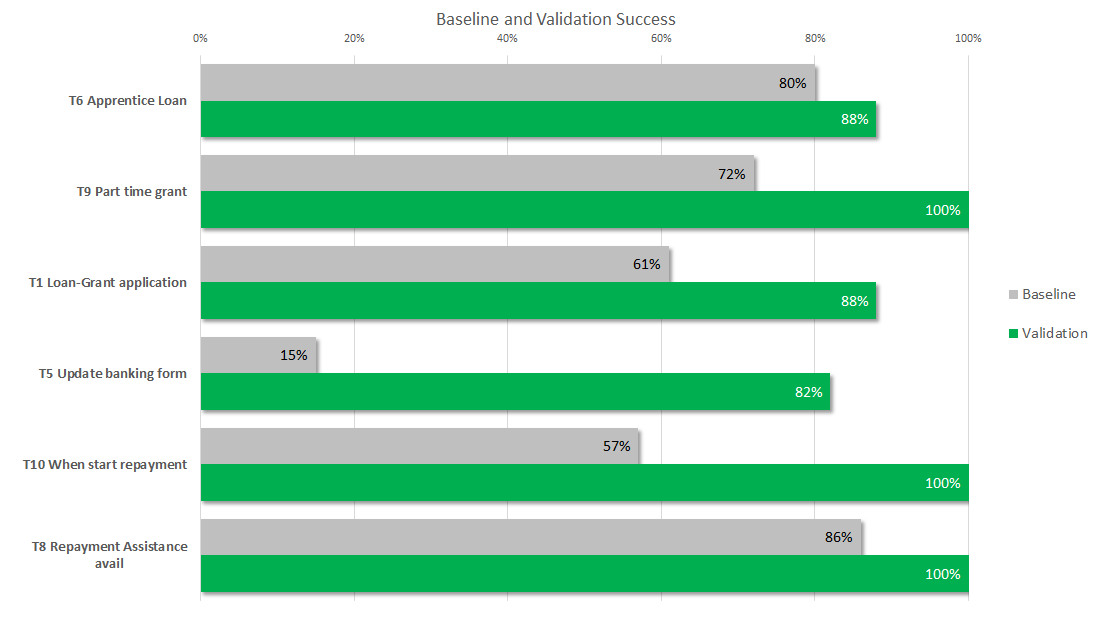
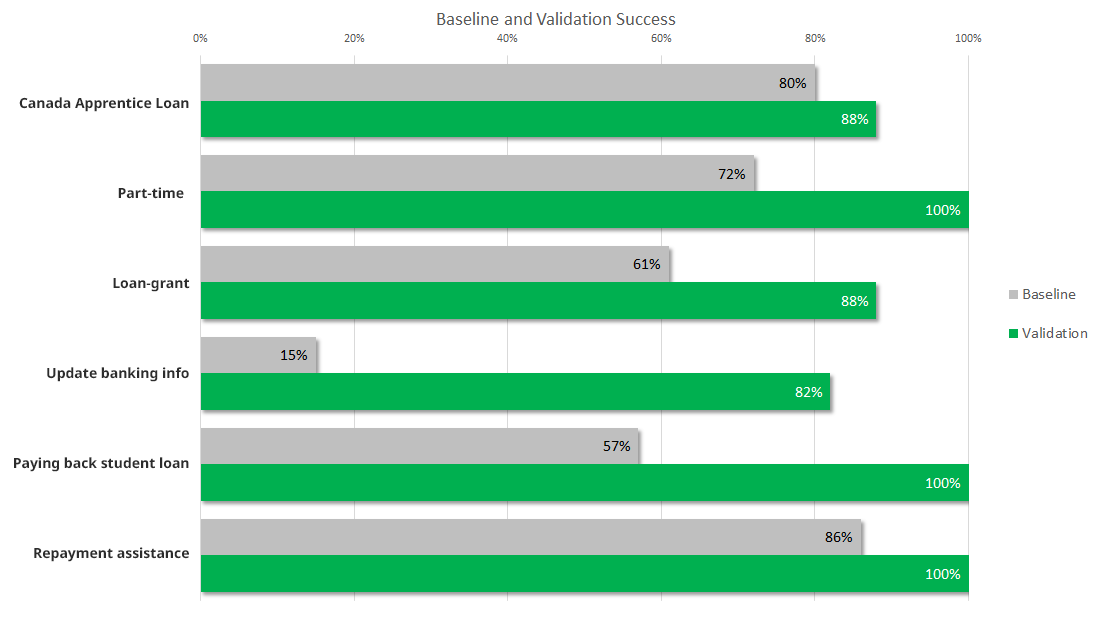
update

diff --git a/research-summaries/student-loans-research-summary.html b/research-summaries/student-loans-research-summary.html
@@ -97,8 +97,8 @@ main p, main li, main blockquote {
 <p>The baseline study showed that it was hard for users to find the <abbr title="National Student Loans Service Centre">NSLSC</abbr> site and to understand what they could do there.  People often seemed to forget the complex name of the National Student Loans Service Centre program. There were many searches on Google and Canada.ca for variations of ‘<abbr title="National Student Loans Service Centre">NSLSC</abbr>’. To address this problem, the team used the term in the title of the new page: <a href="https://www.canada.ca/en/services/benefits/education/student-aid/manage-student-loan.html">Manage your student loan at the <abbr title="National Student Loans Service Centre">NSLSC</abbr></a>. We also added a single primary button to direct students to login to their <abbr title="National Student Loans Service Centre">NSLSC</abbr> account.</p>
 
 <figure class="mrgn-tp-lg mrgn-bttm-lg">
-<img class="img-responsive border" alt="missing" src="../images/student-loans/nslsc-account.png"/>
-<figcaption>No text provided</figcaption>
+<img class="img-responsive border" alt="Primary button placement" src="../images/student-loans/nslsc-account.png"/>
+<figcaption>Screenshot of the section of the web page where the new button “Login to your <abbr title="National Student Loans Service Centre">NSLSC</abbr> account” was added. It is located under the list of items you can do in your <abbr title="National Student Loans Service Centre">NSLSC</abbr> account.</figcaption>
 </figure>
 
 <h3>Use evidence to design language</h3>
@@ -144,7 +144,7 @@ Lump-sum payment
 
 <p>Overall task performance went up from 61% success to 88% when we retested the task scenarios on the prototype. </p>
 
-
+<p>This chart shows the baseline measurement at the start of the project compared with the validation measurement on the prototype redesigned by project team.</p>
 <div>
 <img class="img-responsive hidden-sm hidden-xs" alt="See table that follows for data." src="../images/student-loans/student-loans-task-success-chart.png"/>
 
@@ -155,7 +155,6 @@ Lump-sum payment
 		 <summary>
 			Task completion success rates – table
 		 </summary>
-		 <p>Baseline measurement at start of project, validation on prototype redesigned by project team.</p>
 			 <div class="table-bravo">
 						 <table class="table table-bordered">
 
@@ -163,31 +162,25 @@ Lump-sum payment
 			<th scope="col">Baseline</th>
 			<th scope="col">Validation</th>
 
-		</tr></thead><tbody><tr><td>6. Canada Apprentice Loan</td>
-			<td  >63%</td>
-			<td>61%</td>
-		</tr><tr><td>2. Vet in New Brunswick - GC Jobs</td>
-			<td>69%</td>
-			<td>100%</td>
-		</tr><tr><td>3. Forces Soldier - NatSecurity</td>
-			<td  >69%</td>
-			<td>89%</td>
-		</tr><tr><td>4. Border Officer - NatSecurity</td>
-			<td  >69%</td>
-			<td>78%</td>
-		</tr><tr><td>5. Student - <abbr title="Federal Student Work Experience">FSWEP</abbr> </td>
-			<td  >56%</td>
-			<td>94%</td>
-		</tr>
-		<tr><td>6. Legal Assistant - Job Bank
- </td>
-			<td  >0%</td>
-			<td>94%</td>
-		</tr>
-		<tr><td>7. Civilian Carpenter - GC Jobs
- </td>
+		</tr></thead><tbody><tr><td>Canada Apprentice Loan</td>
 			<td  >80%</td>
-			<td>76%</td>
+			<td>88%</td>
+		</tr><tr><td>Part-time</td>
+			<td>72%</td>
+			<td>100%</td>
+		</tr><tr><td>Loan-grant</td>
+			<td  >61%</td>
+			<td>88%</td>
+		</tr><tr><td>Update banking information</td>
+			<td  >15%</td>
+			<td>82%</td>
+			<tr><td>Paying back student loan</td>
+				<td  >57%</td>
+				<td>100%</td>
+			</tr>
+		</tr><tr><td>Repayment assistance</td>
+			<td  >86%</td>
+			<td>100%</td>
 		</tr>
 
 		</tbody>
@@ -199,7 +192,7 @@ Lump-sum payment
 
 <h2>What we learned</h2>
 
-<p>To serve Canadians, teams have to remove their program information and focus on providing answers and service. For student loans, that meant guiding users to the provinces and the NSLC. The Canada.ca pages are only there to fill the answer-gaps between those service points. </p>
+<p>To better serve Canadians, teams have to remove their program information and focus on providing answers and service. For student loans, that meant guiding users to the provinces and the <abbr title="National Student Loans Service Centre">NSLSC</abbr>. The Canada.ca pages are only there to fill the answer-gaps between those service points. </p>
 
 <h2>Request the research </h2>
 

diff --git a/css/blog-dto-btn.css b/css/blog-dto-btn.css
@@ -1,4 +1,10 @@
 
+figcaption {
+  font-size: 17px !important;
+  line-height: 1.5;
+  max-width: 80ch;
+}
+
 abbr {
   text-decoration: none !important;
 }
